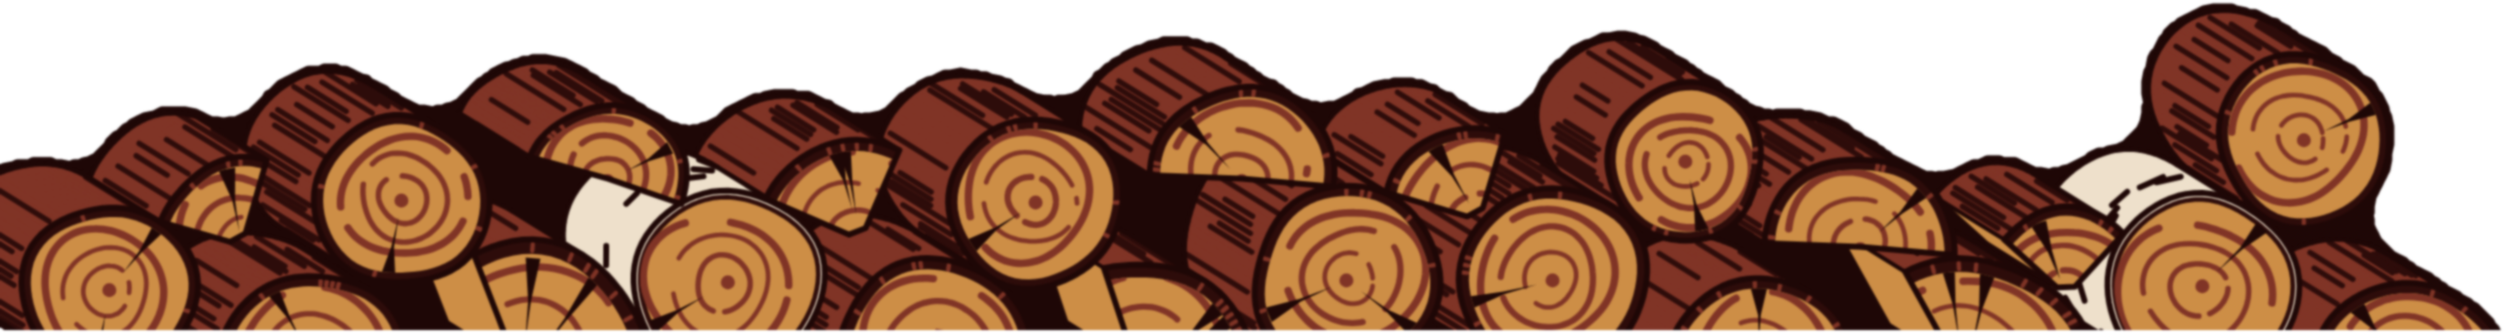
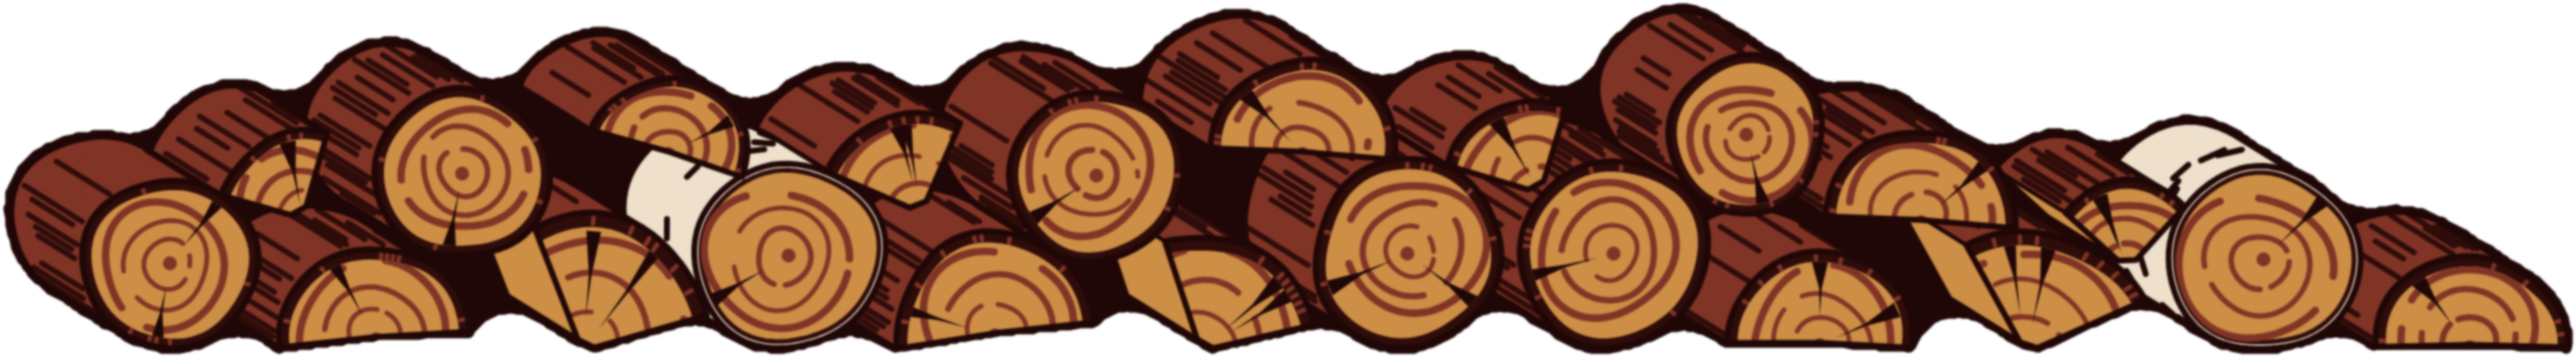
Couvertures : les étoiles du tome 1 passent entre les lignes et autour du texte sans toucher un mot ; la corde longue du tome 2 sans bûche coupée carré
JP : « au tome 1, on peut rajouter des étoiles au travers du texte, tant qu'elles ne touchent pas
à des mots » ; « le bois, fais attention, y en a de coupés carré, faut que ça soit propre ».

Claude-Session: https://claude.ai/code/session_014xDY5FLxFXDJt3nYAYznSZ

diff --git a/images/tomes/essais-ia/tome-1/couverture.py b/images/tomes/essais-ia/tome-1/couverture.py
@@ -351,6 +351,10 @@ SCRIPT = r'''<script>
       sheet.querySelectorAll('img,.ph,.serie i,.rule,.hd,h2,.tome i,.back .txt,.back .toc,.back .auteurs,.back .serie').forEach(e=>{
         const b=e.getBoundingClientRect(); out.push([b.left-o.left,b.top-o.top,b.right-o.left,b.bottom-o.top,0]);
       });
+      // le filet sous chaque ligne du sommaire : une étoile posée dessus se lit comme une tache (fs = -1, sans marge)
+      sheet.querySelectorAll('.back .toc li').forEach(e=>{
+        const b=e.getBoundingClientRect(); out.push([b.left-o.left,b.bottom-2-o.top,b.right-o.left,b.bottom+0.5-o.top,-1]);
+      });
       const p=document.createElement('pre'); p.id='mesure'; p.textContent=JSON.stringify(out); document.body.appendChild(p);
     }
     document.documentElement.dataset.ready='1';
@@ -498,18 +502,28 @@ def motif_dos(k, v, can, rects, m, ppp, img):
     return out
 
 
-def nettoyer(can, rects, ppp):
+def nettoyer(can, rects, ppp, serre=False):
     """Retire les étoiles qui touchent une lettre ou un filet : petites taches claires sur fond sombre (chapeau haut
     de forme), dont la tache entière touche la boîte d'un texte élargie d'une marge. Les crêtes, la lune et les traits
-    de neige sont trop grands pour être pris. Le trou se bouche à la moyenne locale du ciel sans étoiles."""
+    de neige sont trop grands pour être pris. Le trou se bouche à la moyenne locale du ciel sans étoiles.
+    serre (tome 1, JP, 19 octobre 2026 : « on peut rajouter des étoiles au travers du texte, tant qu'elles ne touchent
+    pas à des mots, sur les côtés du texte et partout ») : les blocs de texte entiers ne comptent plus, seulement
+    chaque ligne avec une petite marge, les filets du sommaire et les titres ; les étoiles restent entre les lignes, entre
+    les colonnes et autour des blocs."""
     H, W = can.shape[:2]
     k = 0.0104 * ppp                      # 1 px CSS en px de l'image
     zone = np.zeros((H, W), bool)
     po = 96                               # px CSS par pouce
+    lignes = [r for r in rects if r[4] > 0]
     for x0, y0, x1, y1, fs in rects:
+        if serre and fs == 0 and y1 - y0 > .35 * po and sum(1 for t in lignes if t[0] >= x0 - 3 and t[2] <= x1 + 3
+                                                         and t[1] >= y0 - 3 and t[3] <= y1 + 3) >= 2:
+            continue                      # un bloc de plusieurs lignes : ses lignes suffisent (un titre et son filet restent)
         # marge plus large sur la ligne du texte que dessus et dessous : une étoile au bout d'un mot se lit comme un point
         if fs < 0:
             mx = my = 0
+        elif fs and serre:
+            mx, my = min(max(.6 * fs, .08 * po), .15 * po), .03 * po
         elif fs:
             mx, my = min(max(1.0 * fs, .15 * po), .3 * po), min(max(.5 * fs, .12 * po), .2 * po)
         else:
@@ -672,7 +686,7 @@ def main():
             open(f, 'w', encoding='utf-8').write(page_html(v, k, m, pal, fichiers, None, accent))
             rects = mesurer(f, m)
             can, bandes = composer(v, m, img, pal, o.fond_ppp)
-            can, n = nettoyer(can, rects + bandes, o.fond_ppp)
+            can, n = nettoyer(can, rects + bandes, o.fond_ppp, serre=(k == 1))
             can = motif_dos(k, v, can, rects, m, o.fond_ppp, img)     # après : le nettoyage ne rogne pas les motifs
             fond = 'fond-%s.jpg' % v
             Image.fromarray(can).save(os.path.join(travail, fond), quality=92, subsampling=0)

diff --git a/images/tomes/essais-ia/tome-2/objets-bas/corde_dos.py b/images/tomes/essais-ia/tome-2/objets-bas/corde_dos.py
@@ -11,7 +11,22 @@ from PIL import Image
 ICI = os.path.dirname(os.path.abspath(__file__))
 os.chdir(ICI); sys.path.insert(0, ICI)
 import corde
-from svgkit import rendre
+import subprocess
+from svgkit import chrome, f, PX
+
+def rendre(corps, x0, y0, x1, y1, sortie):
+    """Le rendu de svgkit.rendre, mais dans une fenêtre plus haute qu'il ne faut, puis rogné : Chromium sans fenêtre
+    prend une barre sur la hauteur, et le bas de la corde y passait (des bûches coupées carré)."""
+    W = int(round((x1 - x0) * PX)); H = int(round((y1 - y0) * PX))
+    svg = (f'<svg xmlns="http://www.w3.org/2000/svg" width="{W}" height="{H}" viewBox="{f(x0)} {f(y0)} {f(x1 - x0)} {f(y1 - y0)}">'
+           f'{corps}</svg>')
+    html = os.path.splitext(sortie)[0] + '.html'
+    open(html, 'w').write(f'<html><body style="margin:0;background:transparent">{svg}</body></html>')
+    subprocess.run([chrome(), '--headless', '--no-sandbox', '--disable-gpu', '--hide-scrollbars', f'--screenshot={sortie}',
+                    f'--window-size={W},{H + 400}', '--default-background-color=00000000', 'file://' + os.path.abspath(html)],
+                   check=True, capture_output=True)
+    os.remove(html)
+    Image.open(sortie).crop((0, 0, W, H)).save(sortie)
 import numpy as np
 from scipy import ndimage
 
@@ -45,19 +60,26 @@ def varier(p):
     return q
 
 x0 = corde.X0 + 14
+corde.X0 -= 30                    # de la place tout autour : aucune bûche ne touche le bord du rendu
+corde.Y0 -= 30
 pieces = [dict(varier(BAS[i % len(BAS)]), x=x0 + i * PAS) for i in range(N)]
 # un seul bout crème au deuxième rang, comme au devant : les autres « pale » partent
-haut = [dict(varier(HAUT[i % len(HAUT)]), x=x0 + 13 + i * PAS) for i in range(N - 1)]
+haut = [dict(varier(HAUT[i % len(HAUT)]), x=x0 + 13 + i * PAS) for i in range(N - 2)]
 for i, p in enumerate(haut):
     if p.get('pale') and i != (N - 1) // 2:
         p.pop('pale')
 pieces += haut
 
-corde.X1 = int(x0 + (N - 1) * PAS + 20)
+corde.X1 = int(x0 + (N - 1) * PAS + 40)
+corde.Y1 += 10
 corps, poses = corde.construire(pieces, seed=3)
 rendre(corps, corde.X0, corde.Y0, corde.X1, corde.Y1, 'objet-corde-dos.png')
 o = grain(Image.open('objet-corde-dos.png').convert('RGBA'))
 os.remove('objet-corde-dos.png')
+al = np.asarray(o)[..., 3]
+bords = {'haut': al[0].max(), 'bas': al[-1].max(), 'gauche': al[:, 0].max(), 'droite': al[:, -1].max()}
+if max(bords.values()) > 0:
+    sys.exit('la corde touche le bord du rendu : %s' % bords)
 o = o.crop(o.getbbox())
 o.save(os.path.join(os.path.dirname(ICI), 'objet-corde-dos.png'))
 print('objet-corde-dos.png', o.size, '%d bûches' % len(poses))
